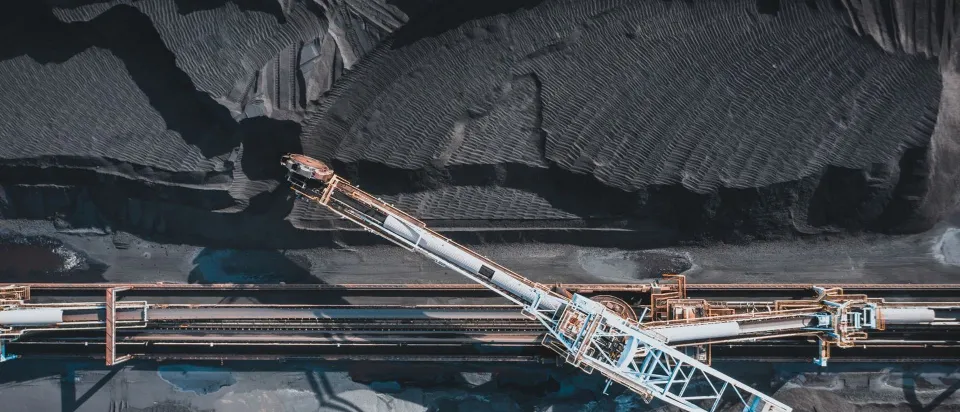
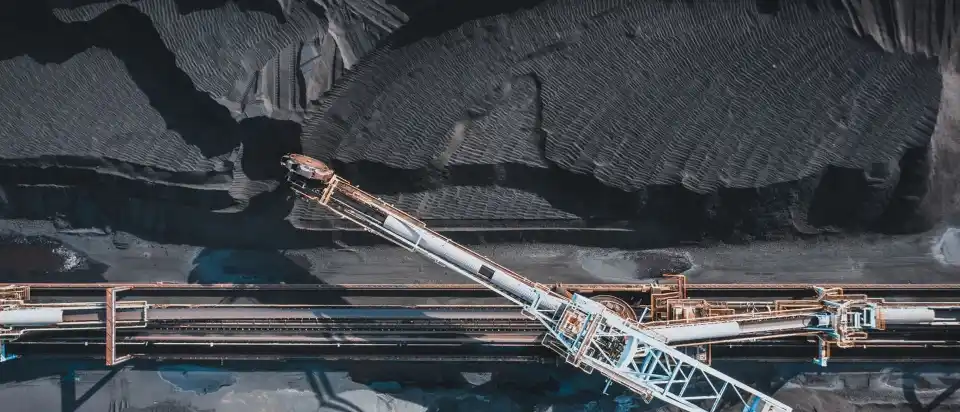
Kill the forced reflow, and size every image to its slot
- site.js read window.scrollY inside a scroll listener, forcing a synchronous
  layout every frame: Lighthouse attributed 316 ms of forced reflow to it. A 1px
  sentinel plus IntersectionObserver gives the same header-shadow signal for free.
- The hero sits under a 0.48-0.97 navy scrim and the expertise band renders at
  16% opacity, so neither is ever seen at full fidelity. Re-encoded at q58/q42:
  the 960w hero WebP drops 66 -> 40 KB with no visible difference.
- Every below-the-fold image now ships a slot-sized variant with srcset/sizes:
  cards at 480/720/900, industry tiles at 400/800, portraits at 224/512. A phone
  fetched 800 px tiles for a 190 px slot before this.

Page weight on a 412 px viewport: 697 KB -> ~330 KB. LCP 4.2 s -> 2.9 s.

diff --git a/index.html b/index.html
@@ -360,8 +360,15 @@
         </div>
         <div class="col-lg-6 ls-reveal">
           <picture>
-            <source srcset="assets/img/service-engineer-inspection.webp" type="image/webp">
+            <source type="image/webp" sizes="(min-width: 992px) 570px, calc(100vw - 24px)"
+                    srcset="assets/img/service-engineer-inspection-480.webp 480w,
+                            assets/img/service-engineer-inspection-720.webp 720w,
+                            assets/img/service-engineer-inspection.webp 900w">
             <img class="rounded-4 shadow-sm" src="assets/img/service-engineer-inspection.jpg"
+                 sizes="(min-width: 992px) 570px, calc(100vw - 24px)"
+                 srcset="assets/img/service-engineer-inspection-480.jpg 480w,
+                         assets/img/service-engineer-inspection-720.jpg 720w,
+                         assets/img/service-engineer-inspection.jpg 900w"
                  width="900" height="600" loading="lazy" decoding="async"
                  alt="Maintenance engineer in hi-vis and hard hat inspecting a large industrial pulley shaft in a workshop">
           </picture>
@@ -606,8 +613,15 @@
           <article class="ls-card h-100" style="border-top:4px solid var(--ls-orange-500)">
             <div class="ls-card__media">
               <picture>
-                <source srcset="assets/img/training-professionals-meeting.webp" type="image/webp">
-                <img src="assets/img/training-professionals-meeting.jpg" width="900" height="600"
+                <source type="image/webp" sizes="(min-width: 1200px) 360px, (min-width: 768px) 340px, calc(100vw - 24px)"
+                        srcset="assets/img/training-professionals-meeting-480.webp 480w,
+                                assets/img/training-professionals-meeting-720.webp 720w,
+                                assets/img/training-professionals-meeting.webp 900w">
+                <img src="assets/img/training-professionals-meeting.jpg"
+                     sizes="(min-width: 1200px) 360px, (min-width: 768px) 340px, calc(100vw - 24px)"
+                     srcset="assets/img/training-professionals-meeting-480.jpg 480w,
+                             assets/img/training-professionals-meeting-720.jpg 720w,
+                             assets/img/training-professionals-meeting.jpg 900w" width="900" height="600"
                      loading="lazy" decoding="async"
                      alt="Improvement team reviewing performance charts together during a Lean Six Sigma workshop">
               </picture>
@@ -691,8 +705,13 @@
         <li class="col-6 col-lg-4 ls-reveal">
           <div class="ls-industry">
             <picture>
-              <source srcset="assets/img/industry-mining.webp" type="image/webp">
-              <img src="assets/img/industry-mining.jpg" width="800" height="600" loading="lazy" decoding="async"
+              <source type="image/webp" sizes="(min-width: 992px) 370px, calc(50vw - 18px)"
+                      srcset="assets/img/industry-mining-400.webp 400w,
+                              assets/img/industry-mining.webp 800w">
+              <img src="assets/img/industry-mining.jpg"
+                   sizes="(min-width: 992px) 370px, calc(50vw - 18px)"
+                   srcset="assets/img/industry-mining-400.jpg 400w,
+                           assets/img/industry-mining.jpg 800w" width="800" height="600" loading="lazy" decoding="async"
                    alt="Bucket-wheel excavator working an open-pit mining bench beside overland conveyors">
             </picture>
             <span class="ls-industry__label">Mining &amp; minerals</span>
@@ -701,8 +720,13 @@
         <li class="col-6 col-lg-4 ls-reveal">
           <div class="ls-industry">
             <picture>
-              <source srcset="assets/img/industry-power-plant.webp" type="image/webp">
-              <img src="assets/img/industry-power-plant.jpg" width="800" height="600" loading="lazy" decoding="async"
+              <source type="image/webp" sizes="(min-width: 992px) 370px, calc(50vw - 18px)"
+                      srcset="assets/img/industry-power-plant-400.webp 400w,
+                              assets/img/industry-power-plant.webp 800w">
+              <img src="assets/img/industry-power-plant.jpg"
+                   sizes="(min-width: 992px) 370px, calc(50vw - 18px)"
+                   srcset="assets/img/industry-power-plant-400.jpg 400w,
+                           assets/img/industry-power-plant.jpg 800w" width="800" height="600" loading="lazy" decoding="async"
                    alt="Thermal power plant cooling tower and stacks, a typical coal-handling conveyor site">
             </picture>
             <span class="ls-industry__label">Power plants</span>
@@ -711,8 +735,13 @@
         <li class="col-6 col-lg-4 ls-reveal">
           <div class="ls-industry">
             <picture>
-              <source srcset="assets/img/industry-cement.webp" type="image/webp">
-              <img src="assets/img/industry-cement.jpg" width="800" height="600" loading="lazy" decoding="async"
+              <source type="image/webp" sizes="(min-width: 992px) 370px, calc(50vw - 18px)"
+                      srcset="assets/img/industry-cement-400.webp 400w,
+                              assets/img/industry-cement.webp 800w">
+              <img src="assets/img/industry-cement.jpg"
+                   sizes="(min-width: 992px) 370px, calc(50vw - 18px)"
+                   srcset="assets/img/industry-cement-400.jpg 400w,
+                           assets/img/industry-cement.jpg 800w" width="800" height="600" loading="lazy" decoding="async"
                    alt="Cement plant with silos, inclined conveyors and material stockpiles at sunset">
             </picture>
             <span class="ls-industry__label">Cement</span>
@@ -721,8 +750,13 @@
         <li class="col-6 col-lg-4 ls-reveal">
           <div class="ls-industry">
             <picture>
-              <source srcset="assets/img/industry-ports-logistics.webp" type="image/webp">
-              <img src="assets/img/industry-ports-logistics.jpg" width="800" height="600" loading="lazy" decoding="async"
+              <source type="image/webp" sizes="(min-width: 992px) 370px, calc(50vw - 18px)"
+                      srcset="assets/img/industry-ports-logistics-400.webp 400w,
+                              assets/img/industry-ports-logistics.webp 800w">
+              <img src="assets/img/industry-ports-logistics.jpg"
+                   sizes="(min-width: 992px) 370px, calc(50vw - 18px)"
+                   srcset="assets/img/industry-ports-logistics-400.jpg 400w,
+                           assets/img/industry-ports-logistics.jpg 800w" width="800" height="600" loading="lazy" decoding="async"
                    alt="Aerial view of a container terminal and quay cranes at a bulk and logistics port">
             </picture>
             <span class="ls-industry__label">Ports &amp; logistics</span>
@@ -731,8 +765,13 @@
         <li class="col-6 col-lg-4 ls-reveal">
           <div class="ls-industry">
             <picture>
-              <source srcset="assets/img/industry-aggregates.webp" type="image/webp">
-              <img src="assets/img/industry-aggregates.jpg" width="800" height="600" loading="lazy" decoding="async"
+              <source type="image/webp" sizes="(min-width: 992px) 370px, calc(50vw - 18px)"
+                      srcset="assets/img/industry-aggregates-400.webp 400w,
+                              assets/img/industry-aggregates.webp 800w">
+              <img src="assets/img/industry-aggregates.jpg"
+                   sizes="(min-width: 992px) 370px, calc(50vw - 18px)"
+                   srcset="assets/img/industry-aggregates-400.jpg 400w,
+                           assets/img/industry-aggregates.jpg 800w" width="800" height="600" loading="lazy" decoding="async"
                    alt="Aggregate processing plant with screening towers, chutes and transfer conveyors">
             </picture>
             <span class="ls-industry__label">Aggregates</span>
@@ -741,8 +780,13 @@
         <li class="col-6 col-lg-4 ls-reveal">
           <div class="ls-industry">
             <picture>
-              <source srcset="assets/img/industry-steel-mill.webp" type="image/webp">
-              <img src="assets/img/industry-steel-mill.jpg" width="800" height="600" loading="lazy" decoding="async"
+              <source type="image/webp" sizes="(min-width: 992px) 370px, calc(50vw - 18px)"
+                      srcset="assets/img/industry-steel-mill-400.webp 400w,
+                              assets/img/industry-steel-mill.webp 800w">
+              <img src="assets/img/industry-steel-mill.jpg"
+                   sizes="(min-width: 992px) 370px, calc(50vw - 18px)"
+                   srcset="assets/img/industry-steel-mill-400.jpg 400w,
+                           assets/img/industry-steel-mill.jpg 800w" width="800" height="600" loading="lazy" decoding="async"
                    alt="Ladle of molten metal being handled inside a steel mill">
             </picture>
             <span class="ls-industry__label">Steel &amp; metals</span>
@@ -816,8 +860,13 @@
             <div class="ls-card__body">
               <div class="ls-trainer__top mb-4">
                 <picture>
-                  <source srcset="assets/img/trainer-ranjit-mondal.webp" type="image/webp">
+                  <source type="image/webp" sizes="112px"
+                          srcset="assets/img/trainer-ranjit-mondal-224.webp 224w,
+                                  assets/img/trainer-ranjit-mondal.webp 512w">
                   <img class="ls-trainer__photo" src="assets/img/trainer-ranjit-mondal.jpg"
+                       sizes="112px"
+                       srcset="assets/img/trainer-ranjit-mondal-224.jpg 224w,
+                               assets/img/trainer-ranjit-mondal.jpg 512w"
                        width="512" height="512" loading="lazy" decoding="async"
                        alt="Portrait of Mr. Ranjit Mondal, conveyor belt and Lean Six Sigma consultant">
                 </picture>
@@ -860,8 +909,13 @@
             <div class="ls-card__body">
               <div class="ls-trainer__top mb-4">
                 <picture>
-                  <source srcset="assets/img/trainer-ruturaj-jadhav.webp" type="image/webp">
+                  <source type="image/webp" sizes="112px"
+                          srcset="assets/img/trainer-ruturaj-jadhav-224.webp 224w,
+                                  assets/img/trainer-ruturaj-jadhav.webp 512w">
                   <img class="ls-trainer__photo" src="assets/img/trainer-ruturaj-jadhav.jpg"
+                       sizes="112px"
+                       srcset="assets/img/trainer-ruturaj-jadhav-224.jpg 224w,
+                               assets/img/trainer-ruturaj-jadhav.jpg 512w"
                        width="512" height="512" loading="lazy" decoding="async"
                        alt="Portrait of Mr. Ruturaj Jadhav, process excellence and continuous improvement consultant">
                 </picture>
@@ -920,8 +974,15 @@
         <div class="col-lg-6 ls-reveal">
           <figure class="ls-card mb-0">
             <picture>
-              <source srcset="assets/img/conveyor-belt-operator.webp" type="image/webp">
-              <img src="assets/img/conveyor-belt-operator.jpg" width="900" height="600" loading="lazy" decoding="async"
+              <source type="image/webp" sizes="(min-width: 992px) 570px, calc(100vw - 24px)"
+                      srcset="assets/img/conveyor-belt-operator-480.webp 480w,
+                              assets/img/conveyor-belt-operator-720.webp 720w,
+                              assets/img/conveyor-belt-operator.webp 900w">
+              <img src="assets/img/conveyor-belt-operator.jpg"
+                   sizes="(min-width: 992px) 570px, calc(100vw - 24px)"
+                   srcset="assets/img/conveyor-belt-operator-480.jpg 480w,
+                           assets/img/conveyor-belt-operator-720.jpg 720w,
+                           assets/img/conveyor-belt-operator.jpg 900w" width="900" height="600" loading="lazy" decoding="async"
                    alt="Operator working at a running conveyor belt line inside a processing plant">
             </picture>
             <figcaption class="ls-card__body">

diff --git a/brand.html b/brand.html
@@ -268,8 +268,15 @@
         <div class="col-md-4">
           <article class="ls-card h-100">
             <div class="ls-card__media">
-              <picture><source srcset="assets/img/analytics-dashboard-charts.webp" type="image/webp">
-              <img src="assets/img/analytics-dashboard-charts.jpg" width="900" height="600" loading="lazy" alt="Laptop showing performance charts beside a planning calendar"></picture>
+              <picture><source type="image/webp" sizes="(min-width: 768px) 360px, calc(100vw - 24px)"
+        srcset="assets/img/analytics-dashboard-charts-480.webp 480w,
+                assets/img/analytics-dashboard-charts-720.webp 720w,
+                assets/img/analytics-dashboard-charts.webp 900w">
+              <img src="assets/img/analytics-dashboard-charts.jpg"
+                   sizes="(min-width: 768px) 360px, calc(100vw - 24px)"
+                   srcset="assets/img/analytics-dashboard-charts-480.jpg 480w,
+                           assets/img/analytics-dashboard-charts-720.jpg 720w,
+                           assets/img/analytics-dashboard-charts.jpg 900w" width="900" height="600" loading="lazy" alt="Laptop showing performance charts beside a planning calendar"></picture>
             </div>
             <div class="ls-card__body"><h3 class="mb-2">Media card</h3><p class="mb-0" style="color:var(--ls-grey-700)">3:2 media well with a 4.5% hover zoom.</p></div>
           </article>

diff --git a/assets/js/site.js b/assets/js/site.js
@@ -9,13 +9,20 @@
   var reduceMotion = window.matchMedia('(prefers-reduced-motion: reduce)').matches;
 
   /* --- 1. Header shadow once the page is scrolled ------------------------ */
+  // Reading window.scrollY inside a scroll listener forces a synchronous layout
+  // on every frame - measured at 316 ms of forced reflow on a throttled phone.
+  // A 1px sentinel at the top of the document gives the same signal for free:
+  // the observer only fires when it crosses the viewport edge.
   var header = document.querySelector('.ls-header');
-  if (header) {
-    var onScroll = function () {
-      header.classList.toggle('is-stuck', window.scrollY > 8);
-    };
-    onScroll();
-    window.addEventListener('scroll', onScroll, { passive: true });
+  if (header && 'IntersectionObserver' in window) {
+    var sentinel = document.createElement('div');
+    sentinel.setAttribute('aria-hidden', 'true');
+    sentinel.style.cssText = 'position:absolute;top:0;left:0;width:1px;height:8px;pointer-events:none';
+    document.body.insertBefore(sentinel, document.body.firstChild);
+
+    new IntersectionObserver(function (entries) {
+      header.classList.toggle('is-stuck', !entries[0].isIntersecting);
+    }).observe(sentinel);
   }
 
   /* --- 2. Reveal-on-scroll ---------------------------------------------- */
